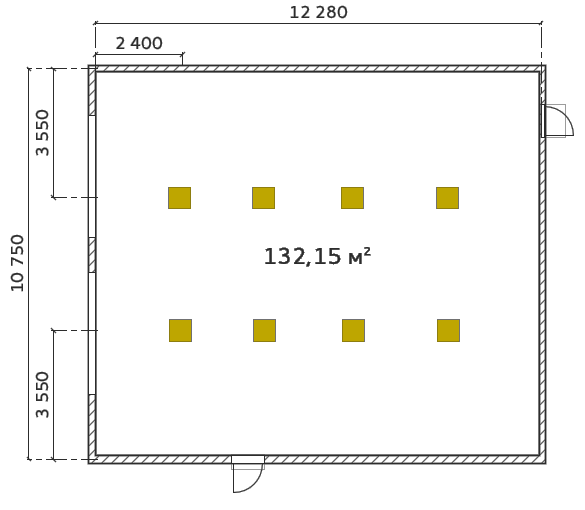
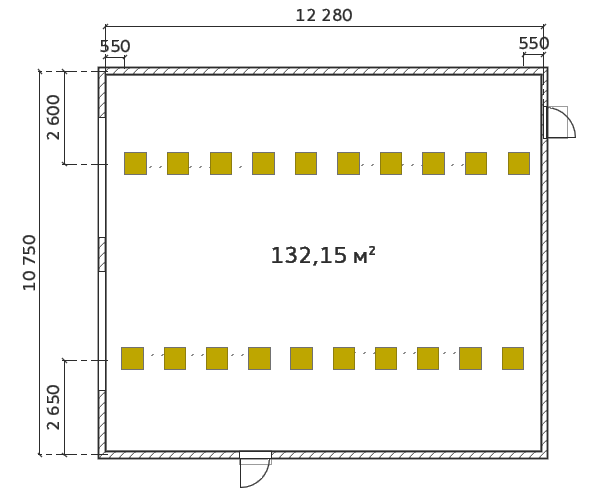
existing

diff --git a/docs/labour/labour.tex b/docs/labour/labour.tex
@@ -32,7 +32,7 @@
 
 \subsection{Оцінка небезпечних і шкідливих виробничих факторів}
     \subsubsection{Мікрокліматичні умови}
-    Категорія робіт, що виконуються на робочому місці є Іа - роботи, що виконуються сидячи і не потребують важкого фізичного навантаження ДСН 3.3.6.042-99\cite{lab-dsn42}. Роботи виконуються на постійному робочому місці.
+    Категорія робіт, що виконуються на робочому місці є легка Іа - роботи, що виконуються сидячи і не потребують важкого фізичного навантаження ДСН 3.3.6.042-99\cite{lab-dsn42}. Роботи виконуються на постійному робочому місці.
 
     Мікроклімат у робочому приміщенні має відповідати наступним вимогам:
     \begin{itemize}
@@ -48,13 +48,13 @@
 
     \subsubsection{Освітлення}
 
-    На робочому місці проводяться зорові роботи із об'єктами 0.5 мм - 1 мм, контраст з об'єктів з фоном середній. Згідно з ДБН В.2.5-28-2006\cite{lab-dbn28} такий вид робіт відповідає розряду ІVг.
+    На робочому місці проводяться зорові роботи із об'єктами розміром 1 мм, контраст з об'єктів з фоном середній. Згідно з ДБН В.2.5-28-2006\cite{lab-dbn28} такий вид робіт відповідає розряду Vг.
 
-    Система освітлення у приміщенні суміщена, здійснюється як за допомогою природного світла з вікна, так і за рахунок штучних джерел на стелі. Сумарне освітлення робочої зони має бути таким, що сумарна освітленість на поверхні робочого столу становила 300 лк для розряду зорових робіт IVг (згідно ДБН В.2.5-28-2006\cite{lab-dbn28}).
+    Система освітлення у приміщенні суміщена, здійснюється як за допомогою природного світла з вікна, так і за рахунок штучних джерел на стелі. Сумарне освітлення робочої зони має бути таким, що сумарна освітленість на поверхні робочого столу становила 200 лк для розряду зорових робіт Vг (згідно ДБН В.2.5-28-2006\cite{lab-dbn28}).
 
     Природнє освітлення здійснюється за рахунок вікон орієнтованих на північ: два вікна, шириною 5 м та висотою 3 м. Загальна площа поверхні вікон 30 м кв.
 
-    Штучне освітлення має здійснюватись переважно системою загального рівномірного освітлення. Рекомендованими є люмінесцентні лампи типу ЛБ - 32 лампи ЛБ-40 (цоколь G13) потужністю 40 Вт із застосуванням 8 світильників типу ЛВО 4х40 - світильник люмінісцентний, вбудований, для місць громадського користування на 4 лампи по 40 Вт кожна.
+    Штучне освітлення має здійснюватись переважно системою загального рівномірного освітлення. Рекомендованими є люмінесцентні лампи типу ЛБ - лампи ЛБ-20 (цоколь G13) потужністю 20 Вт із застосуванням 20 світильників типу ЛВО 4х20 у два ряди - світильник люмінісцентний, вбудований, для місць громадського користування на 4 лампи по 20 Вт кожна.
     Система загального освітлення повинна становити лінії світильників, розташованих збоку від робочих місць, паралельно лінії зору працюючих. План розміщення світильників штучного освітлення наведений на рис.\ref{fig:lab-plan-light}.
 
     \begin{figure}[h!]
@@ -65,12 +65,12 @@
             \label{fig:lab-plan-light}
     \end{figure}
 
-    Коефіцієнт природного освітлення (КПО) становить $e^{III}_n = 0.6$; відповідно
-         до географічного розташування об'єкту у 4 поясі, коефіцієнт світлового клімату дорівнює $m = 0.9$, коефіцієнт сонячності клімату за умови що вікна орієнтовані на північ, а об'єкт росташований північніше 50 градусів, $C = 1.0$. Таким чином, нормативне значення природної освітленності
+    Коефіцієнт природного освітлення (КПО) становить $e_n = 0.6$; відповідно
+         до географічного розташування об'єкту у 4 поясі, коефіцієнт світлового клімату за умови що вікна орієнтовані на північ, а об'єкт росташований північніше 50 градусів дорівнює $m_N = 0.9$. Таким чином, нормативне значення природної освітленності
          становить:
-         \[
-             \textup{КПО} = e^{III} \cdot C \cdot m = 0.6 \cdot 0.9 \cdot 1.0 = 0,54
-         \]
+         $$
+             \textup{КПО} = e_{N} = e_{n} \cdot m_{N} = 0,6 \cdot 0,9 = 0,54
+         $$
 
     Знайдемо площу вікон, що забеспечить нормоване значення КПО.
 
@@ -80,14 +80,14 @@
 
     Відношення довжини приміщення до його глибини $k_1 = \frac{10.75}{12.28} = 0,86$. Відношення глибини приміщення до висоти від рівня робочої поверхні до верхнього краю вікна $k_2 = \frac{12.28}{\frac{12.28}{3.5-0.75}} = 4,5$. Тоді світова характеристика вікон $v_B = 21$.
 
-    $S_\textup{під} = 132,14 \textup{м}^2$ --- площа підлоги; $e_n = 0,81$ --- нормоване значення КПО; $ K_3 = 1,3$ --- коефіцієнт запасу; $ K_{\textup{буд}} = 1 $ --- коефіцієнт, що враховує
+    $S_\textup{під} = 132,14 \textup{м}^2$ --- площа підлоги; $e_n = 0,81$ --- нормоване значення КПО; $ K_3 = 1,5$ --- коефіцієнт запасу; $ K_{\textup{буд}} = 1 $ --- коефіцієнт, що враховує
     затінення вікон будівлями, які розташовані навпроти; $\tau = 0,8 $ ---
     загальний коефіцієнт світопропускання; $r_1 = 1,2$ --- коефіцієнт, що
     враховує підвищення КПО при боковому освітленні завдяки світлу, яке
     відбивається від поверхонь приміщення (мінімальний). Підставляємо всі ці значення і
     отримуємо:
     \[
-     S_B = \frac{132,14}{100} \cdot \frac{0,54 \cdot 1,3 \cdot 23 \cdot 1,0}{0,8 \cdot 1,2} = 29 \textup{м}^2
+     S_B = \frac{132,14}{100} \cdot \frac{0,54 \cdot 1,5 \cdot 23 \cdot 1,0}{0,8 \cdot 1,2} = 29 \textup{м}^2
     \]
 
     Фактична площа більша ніж необхідна, тому природнє освітлення задовільняє норми.
@@ -109,19 +109,21 @@
 
         Показник приміщення за наступною формулою:
         \[
-            i = \frac{ab}{h \cdot (a + b) = \frac{12,3 \cdot 10,75}{3,5 \cdot (12,3+10,75)}} = 1,63
+            i = \frac{ab}{h \cdot (a + b)} = \frac{12,3 \cdot 10,75}{3,5 \cdot (12,3+10,75)} = 1,63
         \]
         тоді коефіцієнт використання світового потоку становить $\nu = 58\% $.
 
-        Світловий потік для використонуваних ламп становить 3200лм, а коефіціент
+        Світловий потік для використонуваних ламп становить 1020лм, а коефіціент
         нерівномірості 1.1
 
-        Коефіцієнт запасу приймається рівним $K_3 = 1,3$.
+        Коефіцієнт запасу приймається рівним $K_3 = 1,5$.
         Підставляючи значення до основної формули методу світлового потоку отримаємо:
         \[
-            E_{\textup{ф}} = \frac{3200 \cdot 8 \cdot 4 \cdot 0,58}{132,14 \cdot 1,3 \cdot 1.1} = 315 \textup{лм}
+            E_{\textup{ф}} = \frac{1020 \cdot 20 \cdot 4 \cdot 0,58}{132,14 \cdot 1,5 \cdot 1.1} = 217 \textup{лк}
         \],
-        що задовільняє норму в 300 лм.
+        норма $E_{\textup{н}} = 200 \textup{лк}$
+
+        Відхилення $(217 - 200) / 200 = 8.5\%$ задовільняє норму в 10\%.
 
     \subsubsection{Шум та вібрація}
     
@@ -166,11 +168,11 @@
     В приміщенні виконуються роботи із електричними установками, які можуть стати причиною пожежі. Забезпечення пожежної безпеки у приміщенні повинно здійснюватися комплексом заходів: організаційних, системи виявлення пожеж та системи пожежогасіння.
     До пожежонебезпечних матеріалів у розглянутому приміщенні можна віднести - тверді горючі речовини (дерев'яні меблі - столи, шафи), підісна стеля. Тоді згідно НАПБ Б.03.002-2007\cite{lab-napb} таке приміщення відноситься до категорії В(пожежонебезпечна).
 
-    Потенційно можливі пожежі класу А -горіння твердих речовин, та класу Е - горіння електроустановок.
+    Потенційно можливі пожежі класу А - горіння твердих речовин та Е - горіння електроустановок.
 
     Приміщення повинно відповідати вимогам системи попередження пожеж (максимальне використання негорючих матеріалів, застосування аварійного відключення на електроустановках, наявність систем виявлення пожежі, вогнегасників).
 
-    Основні причини пожежі у приміщенні пов'язані з електричними приладами, напруга в яких не перевищує 380 В, необхідно встановити автоматичну дренчерну систему газового пожежогасіння з використанням хладона.
+    Основні причини пожежі у приміщенні пов'язані з електричними приладами, У приміщенні мають бути розташовані чотири порошкових вогнегасників ВП-5 з масою вогнегасної речовини 5 кг. Також можна встановити автоматичну дренчерну систему газового пожежогасіння з використанням хладона.
 
     Один димовий датчик контролює 30-50 м кв. Приміщення площею 132 м кв. має бути обладнане не менше ніж чотирма димовими датчиками сповіщення про пожежу.
 

diff --git a/docs/pz1/about.tex b/docs/pz1/about.tex
@@ -18,7 +18,13 @@
 	Розглянемо телефонну мережу оператора стаціонарного чи мобильного зв'язку. В такій мережі існує велика кількість АТС (PBX), розподілених по території та які обслуговують велику кількість абонентів. Внаслідок нелегального використання послуг оператор може понести великі операційні збитки, а також істотні збитки у судових справах.
 
 \subsection{Основні поняття}
-	Наразі існують два доступних види телефонних комунікацій. Перший це наземні аналогові лінії, які передають неперервний хвилевий сигнал, другий використовує цифрову передачу сигналу, в якому трафік кодується за допомогою швидкої передачі бінарних імпульсів. На даний момент оператори мобільного зв'язку використовують цифровий спосіб передаці голосових даних та більшість операторів наземного перейшли на цифрові системи. 
+
+  Система виявлення вторгнень - програмний або апаратний засіб, призначений для виявлення фактів несанкціонованого доступу в мережу або несанкціонованого управління ними в основному через Інтернет. Відповідний англійський термін - Intrusion Detection System (IDS).
+
+  Для запобігання шахрайству у мережах використовують мережеві екрани, що можуть блокувати або дозволяти певний трафік через себе.
+  Основна різниця між мережевим екраном (файрволом) та системою виявлення вторгнення полягає у області дії. Мережевий екран діє на границі мережі, тоді як система виявлення вторгнень - всередені, вона пропускає через себе весь трафік та виявляє аномальні ділянки.
+
+	Наразі існують два доступних види телефонних комунікацій. Перший це наземні аналогові лінії, які передають неперервний хвилевий сигнал, другий використовує цифрову передачу сигналу, в якому трафік кодується за допомогою швидкої передачі бінарних імпульсів. На даний момент оператори мобільного зв'язку використовують цифровий спосіб передаці голосових даних та більшість операторів наземного перейшли на цифрові системи.
 
 	Протокол SIP у телефонії використовується майже скрізь, цифрові системи АТС (PBX) характеризуються легкістю аналізу даних. Call Detail Record (CDR), також відомий як запис даних виклику, є записом у журналі телефонної станції або іншого телекомунікаційного обладнання, що містить атрибути, характерні для одного телефонного дзвінка або іншої послуги зв'язку, яка була оброблена системою.
 

diff --git a/docs/pz1/existing.tex b/docs/pz1/existing.tex
@@ -1,14 +1,12 @@
 \newpage
 \bignumberedpart{Огляд існуючих розв'язків}
-\subsection{\TBD}
-    \TBD \cite{ben2005outlier}.
+\subsection{Модель системи виявлення вторгнень в реальному часі}
+    Система виявлення вторгнення в реальному часі базується на гіпотезі, що загрози безпеці можуть бути виявлені за допомогою моніторингу записів журналу на \cite{denning1987intrusion}.
 
-	Система виявлення вторгнень - програмний або апаратний засіб, призначений для виявлення фактів несанкціонованого доступу в мережу або несанкціонованого управління ними в основному через Інтернет. Відповідний англійський термін - Intrusion Detection System (IDS).
+    У роботі  розглянута модель системи запобігання вторгненням в реальному часі.
 
-	Для запобігання шахрайству у мережах використовують мережеві екрани, що можуть блокувати або дозволяти певний трафік через себе. \TBD
-	Основна різниця між мережевим екраном (файрволом) та системою виявлення вторгнення
+        \TBD \cite{ben2005outlier}.
 
-    У роботі \cite{denning1987intrusion}
 \subsection{\TBD}
     \TBD
 \newpage
